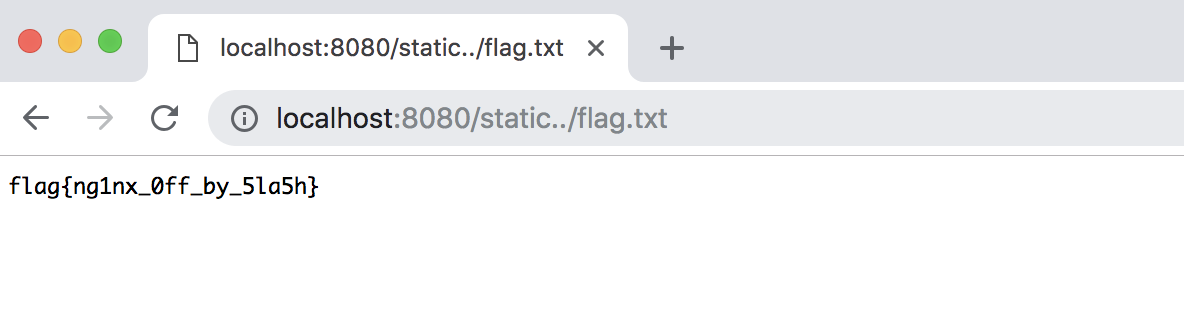
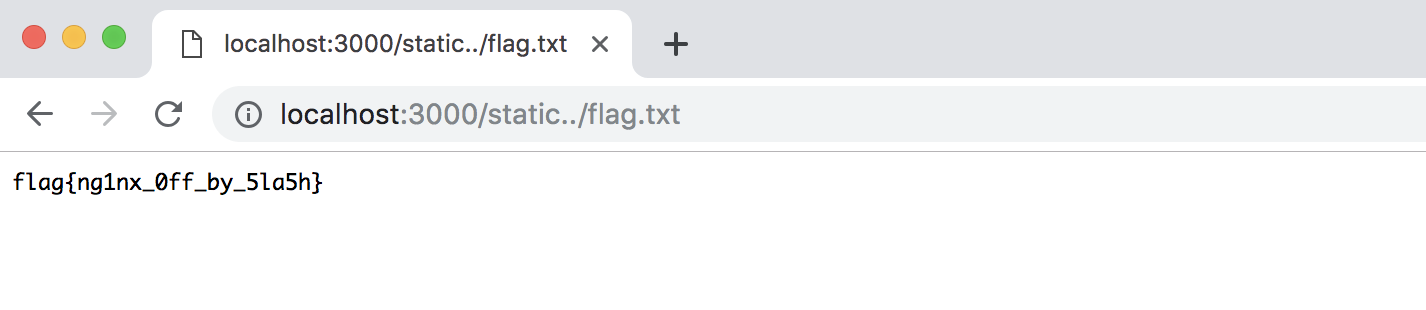
change port

diff --git a/index.html b/index.html
@@ -13,6 +13,6 @@
 </head>
 <body>
 <h1>Welcome to alias traversal sample app via Nginx!</h1>
-Vulnerable static file path is available at <a href="http://localhost:8080/static/welcome.txt">http://localhost:8080/static/welcome.txt</a>.</p>
+Vulnerable static file path is available at <a href="http://localhost:3000/static/welcome.txt">http://localhost:3000/static/welcome.txt</a>.</p>
 </body>
 </html>

diff --git a/README.md b/README.md
@@ -5,11 +5,11 @@
 ![flag](./screenshots/flag.png)
 
 ## How to use
-Dockerfile exists. Sample app work on 8080 port.
+Dockerfile exists. Sample app work on 3000 port.
 
 ```
 $ docker build -t nginx-traversal .
-$ docker run -d -p 8080:8080 nginx-traversal:latest
+$ docker run -d -p 3000:80 nginx-traversal:latest
 ```
 
 ## Tools to find
